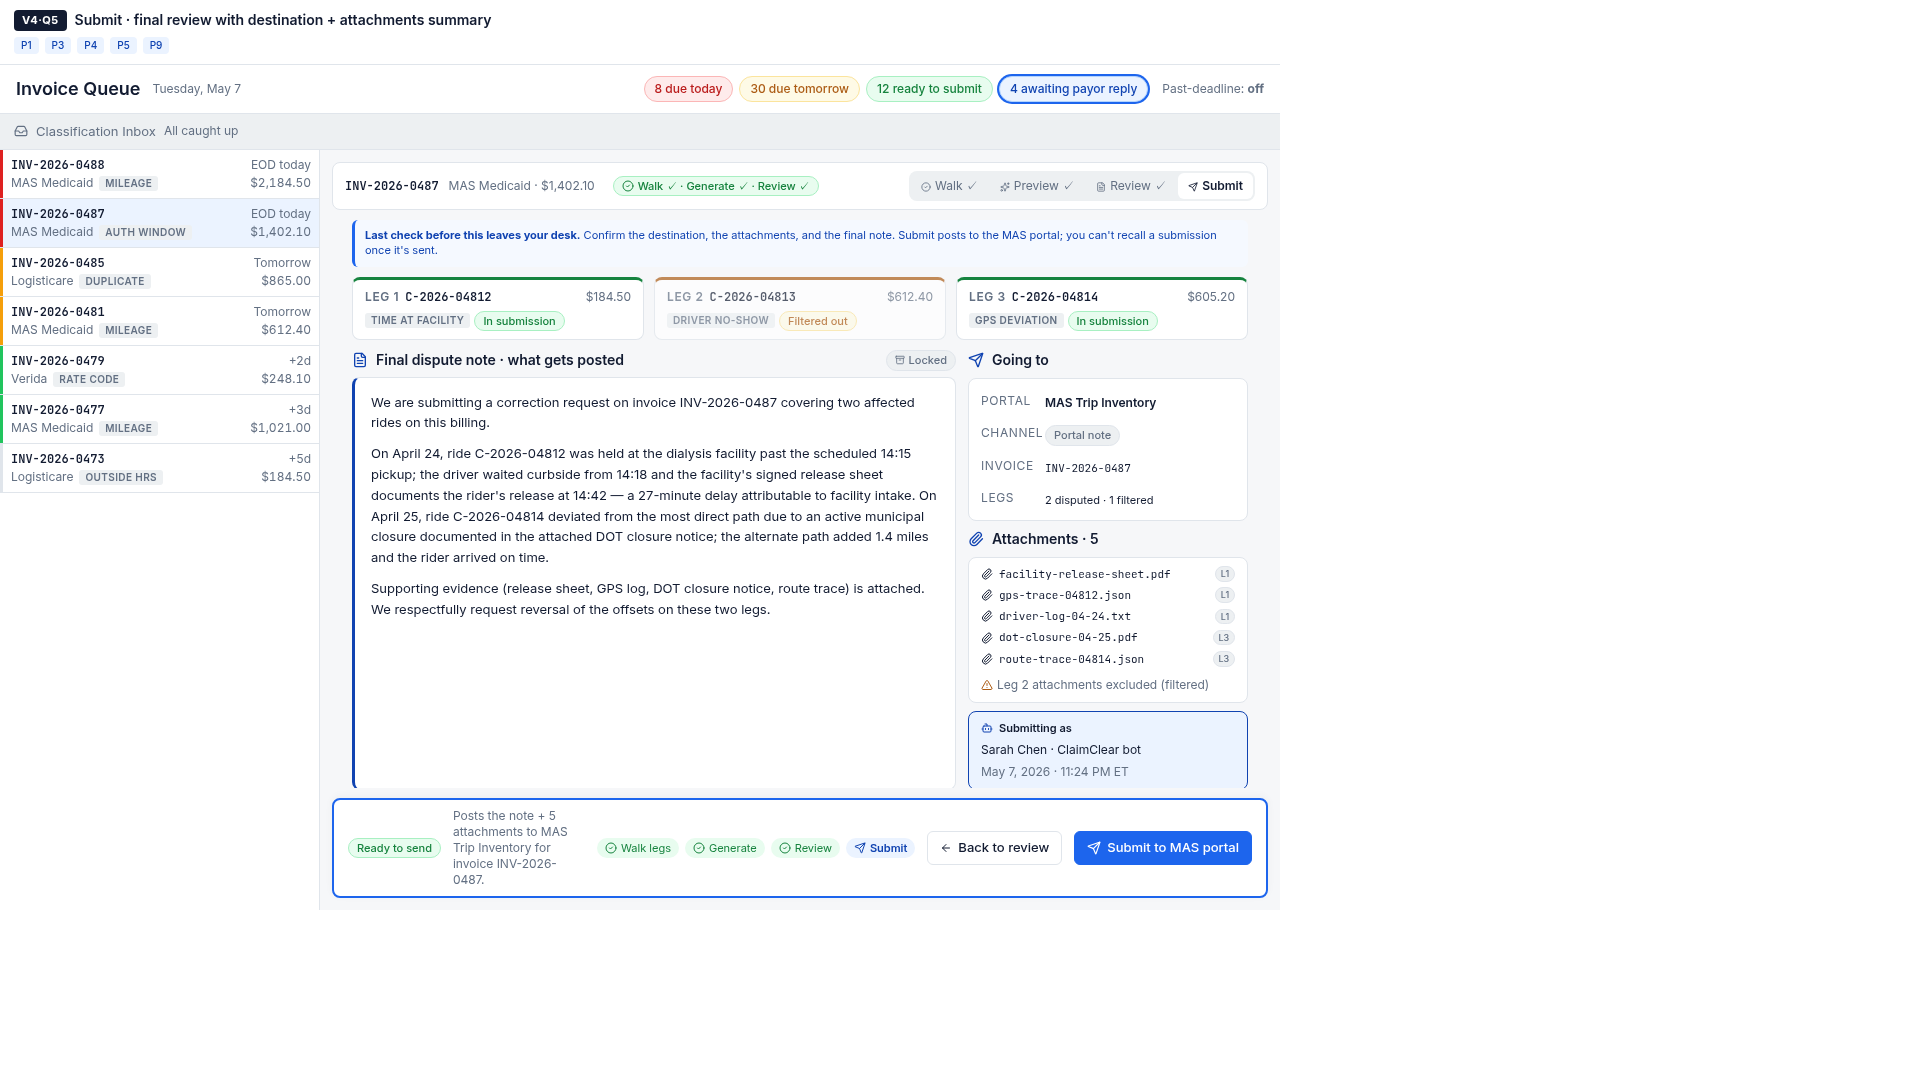
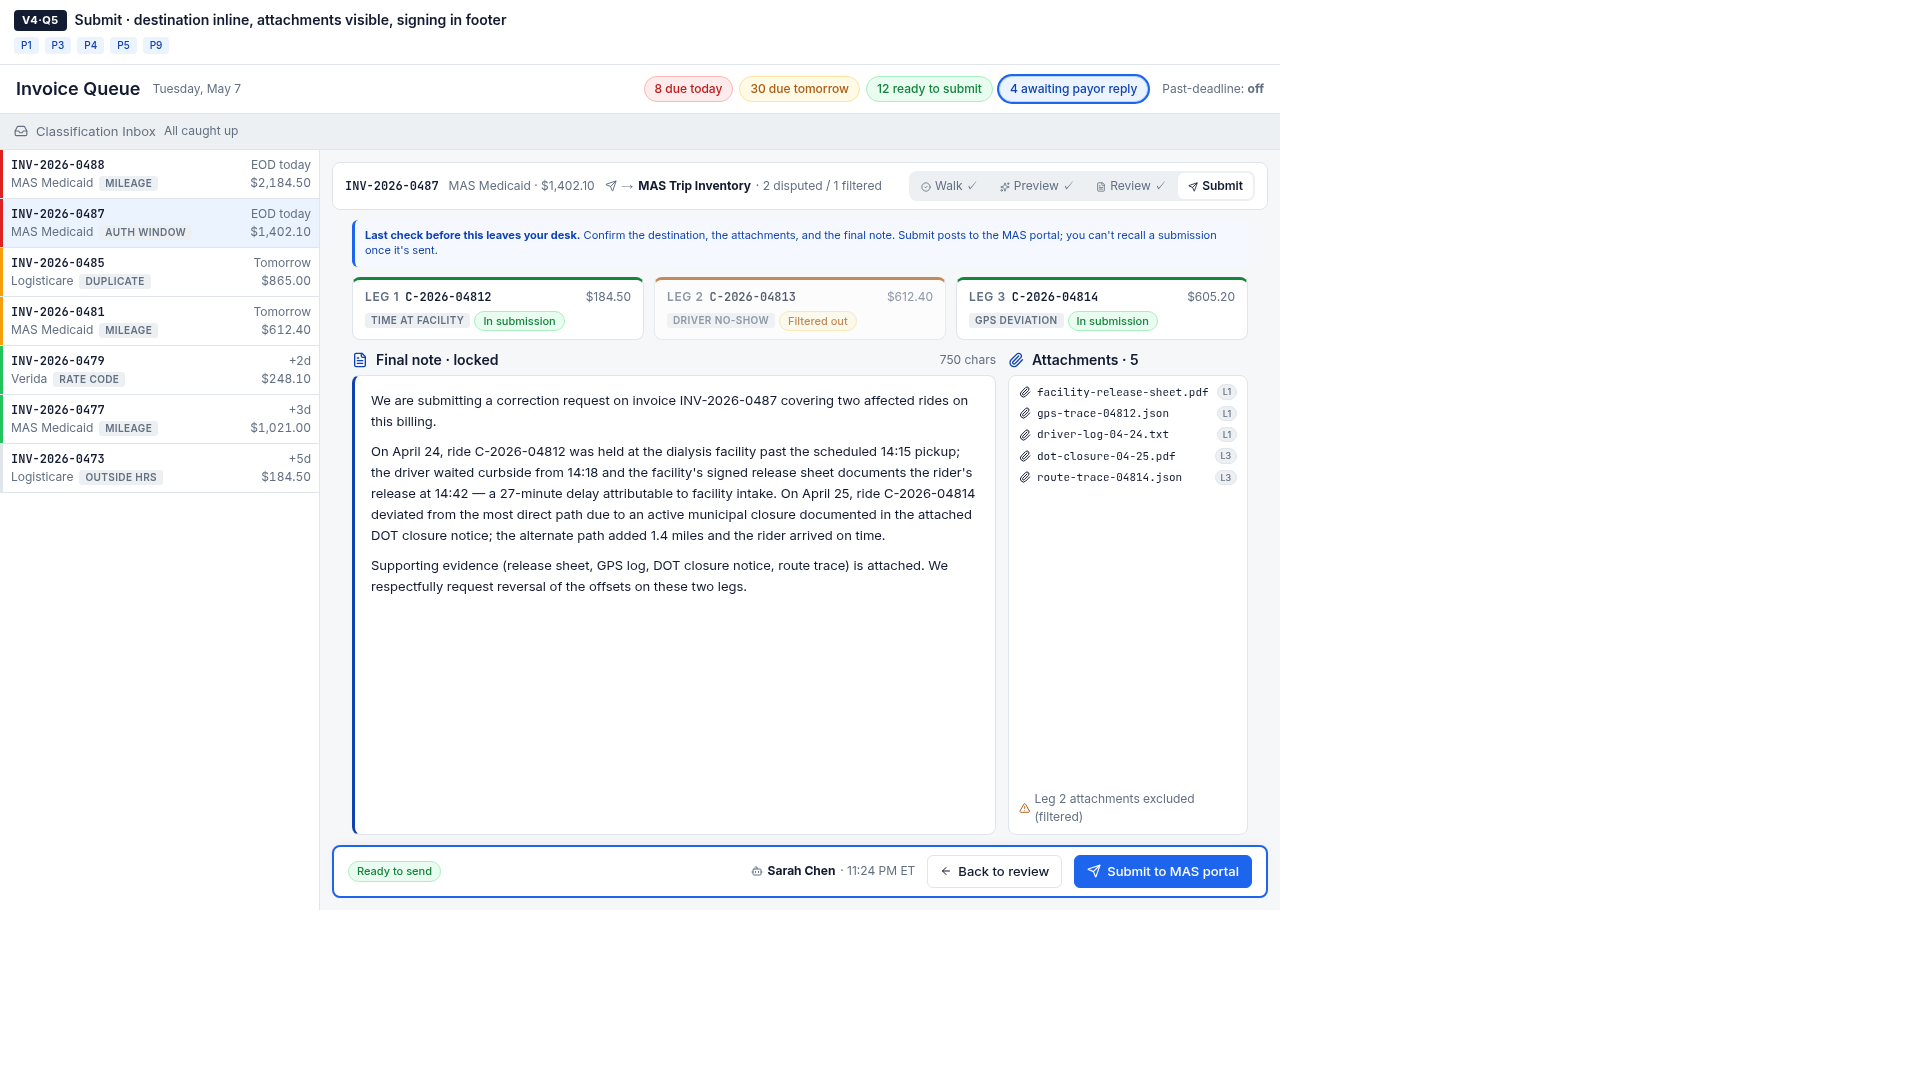
Make the final submission screen more concise
Streamline the Q5 screen by moving destination details to the header and signing information to the footer, leaving only the attachments visible in the right rail.

Replit-Commit-Author: Agent
Replit-Commit-Session-Id: 9bf0e1e3-3b70-4b41-a8ee-b8460df2d63f
Replit-Commit-Checkpoint-Type: full_checkpoint
Replit-Commit-Event-Id: 52c26f77-855a-4b25-abd4-c101dcad95f2
Replit-Helium-Checkpoint-Created: true

diff --git a/artifacts/mockup-sandbox/src/components/mockups/aisummary-hero/Q5.tsx b/artifacts/mockup-sandbox/src/components/mockups/aisummary-hero/Q5.tsx
@@ -10,14 +10,16 @@ import {
 } from "../queue-redesign/_shared";
 
 /**
- * Round 4 · Q5 — Submit frame.
- * Cards stay visible on top (now compact recap). Below: the final paragraph
- * shown in a locked, read-only panel. To the right of the paragraph (or
- * beneath it depending on width), a submission summary panel: portal
- * destination, attachment list, leg coverage, who/when. Footer gauntlet
- * has reached the Submit step; primary CTA is the big "Submit dispute to
- * MAS portal" button. Small "Back to review" secondary in case the
- * operator caught something at the very last step.
+ * Round 4 · Q5 — Submit (slim).
+ *
+ * Final-step screen. The previous version stacked three right-rail panels
+ * (Going to / Attachments / Submitting as) which made the page feel as
+ * dense as a dispute walk. Here:
+ *   - Destination ("→ MAS Trip Inventory · Portal note · 2 disputed / 1 filtered")
+ *     pulled inline into the invoice header.
+ *   - Submitting-as identity merged into the footer meta line.
+ *   - Right rail collapses to ONLY the attachments list, which is the
+ *     one piece of scannable, hand-checkable information at this step.
  */
 export default function Q5() {
   const finalText = `We are submitting a correction request on invoice ${groupSummary.invoice} covering two affected rides on this billing.
@@ -30,7 +32,7 @@ Supporting evidence (release sheet, GPS log, DOT closure notice, route trace) is
     <div className="cc-scope" style={{ width: 1280, minHeight: 900 }}>
       <FrameLabel
         tag="V4·Q5"
-        title="Submit · final review with destination + attachments summary"
+        title="Submit · destination inline, attachments visible, signing in footer"
         principles={["P1", "P3", "P4", "P5", "P9"]}
       />
       <HeaderStrip />
@@ -45,24 +47,15 @@ Supporting evidence (release sheet, GPS log, DOT closure notice, route trace) is
           <div style={{ padding: "0 1.25rem" }}>
             <Annotation>
               <strong>Last check before this leaves your desk.</strong>{" "}
-              Confirm the destination, the attachments, and the final note. Submit posts to the MAS
-              portal; you can't recall a submission once it's sent.
+              Confirm the destination, the attachments, and the final note. Submit posts to the MAS portal;
+              you can't recall a submission once it's sent.
             </Annotation>
           </div>
 
           <CardRow>
-            <LegCardCompact
-              n={1} conf={legs[0].conf} amount={legs[0].amount}
-              tag="Time at Facility" tone="green" included
-            />
-            <LegCardCompact
-              n={2} conf={legs[1].conf} amount={legs[1].amount}
-              tag="Driver No-Show" tone="amber" filtered
-            />
-            <LegCardCompact
-              n={3} conf={legs[2].conf} amount={legs[2].amount}
-              tag="GPS Deviation" tone="green" included
-            />
+            <LegCardCompact n={1} conf={legs[0].conf} amount={legs[0].amount} tag="Time at Facility" tone="green" included />
+            <LegCardCompact n={2} conf={legs[1].conf} amount={legs[1].amount} tag="Driver No-Show" tone="amber" filtered />
+            <LegCardCompact n={3} conf={legs[2].conf} amount={legs[2].amount} tag="GPS Deviation" tone="green" included />
           </CardRow>
 
           <SubmitBody finalText={finalText} />
@@ -78,8 +71,11 @@ function InvoiceHeader() {
     <div style={{ display: "flex", alignItems: "center", gap: "0.625rem", padding: "0.5rem 0.75rem", background: "var(--cc-card)", border: "1px solid var(--cc-border)", borderRadius: "var(--cc-radius)" }}>
       <span className="mono text-[12px] font-semibold">{groupSummary.invoice}</span>
       <span className="cc-meta text-[11px]">{groupSummary.payor} · {groupSummary.total}</span>
-      <span className="cc-pill cc-pill-green" style={{ marginLeft: "0.5rem" }}>
-        <Icons.CheckCircle2 className="w-3 h-3 inline" /> Walk ✓ · Generate ✓ · Review ✓
+      <span className="cc-meta text-[11px]" style={{ display: "inline-flex", alignItems: "center", gap: "0.3rem" }}>
+        <Icons.Send className="w-3 h-3" />
+        →
+        <strong style={{ color: "var(--cc-fg)" }}>MAS Trip Inventory</strong>
+        · 2 disputed / 1 filtered
       </span>
       <div className="cc-segmented" style={{ marginLeft: "auto" }}>
         <button><Icons.CheckCircle2 className="w-2.5 h-2.5 inline mr-1" />Walk ✓</button>
@@ -138,15 +134,13 @@ function LegCardCompact({
 
 function SubmitBody({ finalText }: { finalText: string }) {
   return (
-    <div style={{ flex: 1, padding: "0 1.25rem", overflow: "auto", display: "grid", gridTemplateColumns: "1fr 280px", gap: "0.75rem" }}>
+    <div style={{ flex: 1, padding: "0 1.25rem", overflow: "auto", display: "grid", gridTemplateColumns: "1fr 240px", gap: "0.75rem" }}>
       {/* Final paragraph (locked) */}
-      <div style={{ display: "flex", flexDirection: "column", gap: "0.375rem", minWidth: 0 }}>
+      <div style={{ display: "flex", flexDirection: "column", gap: "0.3rem", minWidth: 0 }}>
         <div className="flex items-center gap-2">
           <Icons.FileText className="w-4 h-4" style={{ color: "var(--cc-blue-fg)" }} />
-          <span className="font-semibold text-sm">Final dispute note · what gets posted</span>
-          <span className="cc-pill cc-pill-muted ml-auto">
-            <Icons.Archive className="w-2.5 h-2.5 inline" /> Locked
-          </span>
+          <span className="font-semibold text-sm">Final note · locked</span>
+          <span className="cc-meta text-xs ml-auto">{finalText.length} chars</span>
         </div>
         <div
           style={{
@@ -170,46 +164,20 @@ function SubmitBody({ finalText }: { finalText: string }) {
         </div>
       </div>
 
-      {/* Submission summary panel */}
-      <div style={{ display: "flex", flexDirection: "column", gap: "0.5rem" }}>
-        <div className="flex items-center gap-2">
-          <Icons.Send className="w-4 h-4" style={{ color: "var(--cc-blue-fg)" }} />
-          <span className="font-semibold text-sm">Going to</span>
-        </div>
-        <div
-          style={{
-            padding: "0.625rem 0.75rem",
-            background: "var(--cc-card)",
-            border: "1px solid var(--cc-border)",
-            borderRadius: "var(--cc-radius)",
-            display: "flex", flexDirection: "column", gap: "0.5rem",
-          }}
-        >
-          <Row label="Portal">
-            <span className="text-[12px] font-semibold">MAS Trip Inventory</span>
-          </Row>
-          <Row label="Channel">
-            <span className="cc-pill cc-pill-muted">Portal note</span>
-          </Row>
-          <Row label="Invoice">
-            <span className="mono text-[11px]">{groupSummary.invoice}</span>
-          </Row>
-          <Row label="Legs">
-            <span className="text-[11px]">2 disputed · 1 filtered</span>
-          </Row>
-        </div>
-
+      {/* Attachments — the only right-rail panel that survives */}
+      <div style={{ display: "flex", flexDirection: "column", gap: "0.3rem" }}>
         <div className="flex items-center gap-2">
           <Icons.Paperclip className="w-4 h-4" style={{ color: "var(--cc-blue-fg)" }} />
           <span className="font-semibold text-sm">Attachments · 5</span>
         </div>
         <div
           style={{
-            padding: "0.5rem 0.75rem",
+            padding: "0.5rem 0.625rem",
             background: "var(--cc-card)",
             border: "1px solid var(--cc-border)",
             borderRadius: "var(--cc-radius)",
             display: "flex", flexDirection: "column", gap: "0.3rem",
+            flex: 1,
           }}
         >
           <Attach name="facility-release-sheet.pdf" leg="L1" />
@@ -217,39 +185,12 @@ function SubmitBody({ finalText }: { finalText: string }) {
           <Attach name="driver-log-04-24.txt" leg="L1" />
           <Attach name="dot-closure-04-25.pdf" leg="L3" />
           <Attach name="route-trace-04814.json" leg="L3" />
-          <div className="cc-meta text-[10px]" style={{ marginTop: "0.25rem", display: "inline-flex", alignItems: "center", gap: "0.25rem" }}>
+          <div className="cc-meta text-[10px]" style={{ marginTop: "auto", paddingTop: "0.35rem", display: "inline-flex", alignItems: "center", gap: "0.25rem" }}>
             <Icons.AlertTriangle className="w-3 h-3" style={{ color: "var(--cc-amber-fg)" }} />
             Leg 2 attachments excluded (filtered)
           </div>
         </div>
-
-        <div
-          style={{
-            marginTop: "auto",
-            padding: "0.5rem 0.75rem",
-            background: "var(--cc-blue-bg, var(--cc-card))",
-            border: "1px solid var(--cc-blue-fg)",
-            borderRadius: "var(--cc-radius)",
-            display: "flex", flexDirection: "column", gap: "0.25rem",
-          }}
-        >
-          <div className="flex items-center gap-1.5">
-            <Icons.Bot className="w-3 h-3" style={{ color: "var(--cc-blue-fg)" }} />
-            <span className="text-[11px] font-semibold">Submitting as</span>
-          </div>
-          <div className="text-[12px]">Sarah Chen · ClaimClear bot</div>
-          <div className="cc-meta text-[10px]">May 7, 2026 · 11:24 PM ET</div>
-        </div>
       </div>
-    </div>
-  );
-}
-
-function Row({ label, children }: { label: string; children: React.ReactNode }) {
-  return (
-    <div className="flex items-center gap-2">
-      <span className="cc-meta text-[10px] uppercase tracking-wider" style={{ width: 56 }}>{label}</span>
-      <div style={{ flex: 1, minWidth: 0 }}>{children}</div>
     </div>
   );
 }
@@ -270,15 +211,11 @@ function FooterSubmit() {
   return (
     <div className="cc-footer-card cc-footer-pinned" style={{ padding: "0.5rem 0.875rem" }}>
       <span className="cc-pill cc-pill-green">Ready to send</span>
-      <span className="cc-meta text-xs flex-1">
-        Posts the note + 5 attachments to MAS Trip Inventory for invoice {groupSummary.invoice}.
+      <span className="cc-meta text-[11px]" style={{ display: "inline-flex", alignItems: "center", gap: "0.3rem", marginLeft: "auto" }}>
+        <Icons.Bot className="w-3 h-3" />
+        <strong style={{ color: "var(--cc-fg)" }}>Sarah Chen</strong>
+        · 11:24 PM ET
       </span>
-      <div className="cc-gauntlet-row" style={{ margin: 0 }}>
-        <span className="cc-gauntlet-step cc-gauntlet-done"><Icons.CheckCircle2 className="w-3 h-3" /> Walk legs</span>
-        <span className="cc-gauntlet-step cc-gauntlet-done"><Icons.CheckCircle2 className="w-3 h-3" /> Generate</span>
-        <span className="cc-gauntlet-step cc-gauntlet-done"><Icons.CheckCircle2 className="w-3 h-3" /> Review</span>
-        <span className="cc-gauntlet-step cc-gauntlet-active"><Icons.Send className="w-3 h-3" /> Submit</span>
-      </div>
       <button className="cc-btn"><Icons.ArrowLeft className="w-3 h-3" /> Back to review</button>
       <button className="cc-btn cc-btn-primary">
         <Icons.Send className="w-3.5 h-3.5" /> Submit to MAS portal
